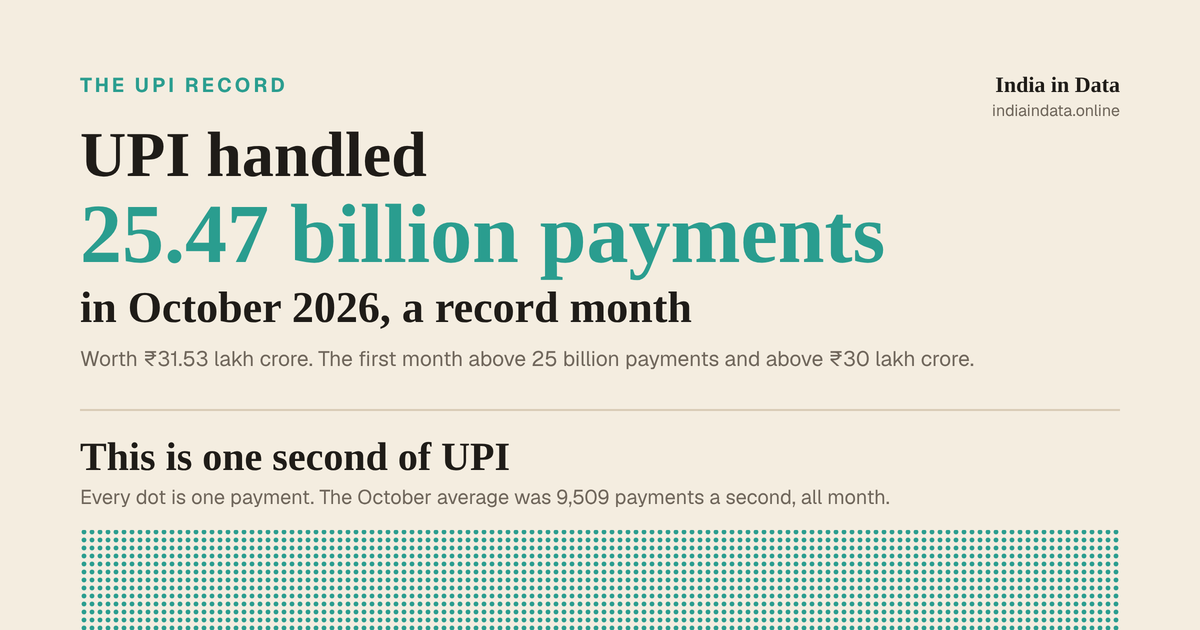
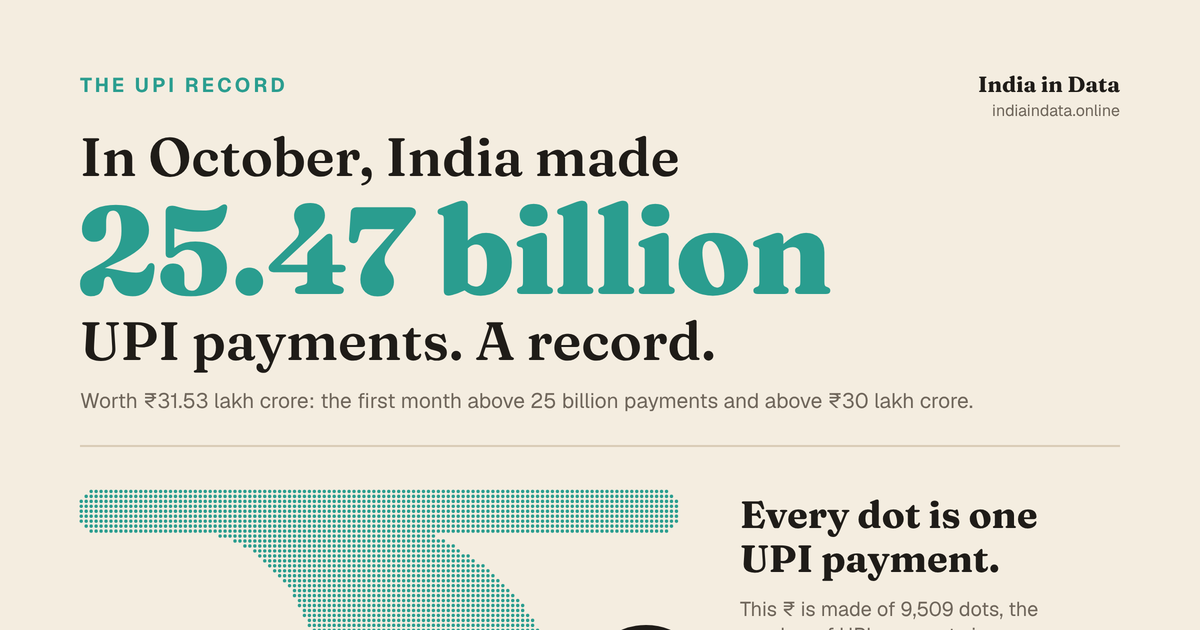
UPI infographic: rupee of 9,509 dots, midnight clock, receipt strips
Claude-Session: https://claude.ai/code/session_014CgExXTmhYcHWAfTLX6LU2

Changed region(s): [[0.0617, 0.2111, 0.925, 0.6635], [0.0617, 0.6937, 0.9558, 1.0], [0.8017, 0.1206, 0.925, 0.1508]]

diff --git a/src/infographics/UpiRecord.jsx b/src/infographics/UpiRecord.jsx
@@ -1,164 +1,238 @@
 import { forwardRef } from 'react'
 import { UPI_MONTHS } from './upiRecordData.js'
+import { RUPEE_DOTS } from './upiRupeeDots.js'
+import { POP_INDIA, POP_YEARS } from '../data/population.js'
 
-// Same editorial style as the other infographics: warm paper, serif display type, fixed palette.
+// House infographic style (warm paper, serif display), drawn with objects from UPI's own world:
+// a ₹ made of payments, a wall clock, and receipt strips feeding out of a payment printer.
 const C = {
-  paper: '#f4ede0', ink: '#1f1c18', mute: '#6f665b', rule: '#d9ccb6',
-  teal: '#2a9d8f', tealPale: '#bfe3dd', gold: '#e9c22a', goldDeep: '#c9a20f', red: '#d6473b', cream: '#ebe1cf',
+  paper: '#f4ede0', ink: '#1f1c18', mute: '#6f665b', rule: '#d9ccb6', slip: '#fffdf7', slipEdge: '#cdbfa6',
+  teal: '#2a9d8f', tealDeep: '#1f7a6f', tealPale: '#bfe3dd', gold: '#e9c22a', goldDeep: '#b8920b', red: '#d6473b', face: '#fbf6ec',
 }
-const SERIF = 'Fraunces, Georgia, "Times New Roman", serif'
+const SERIF = '"Fraunces Variable", Fraunces, Georgia, "Times New Roman", serif'
 const SANS = '"Geist Variable", "Helvetica Neue", Arial, sans-serif'
+const MONO = '"Geist Mono Variable", ui-monospace, Menlo, monospace'
 const n0 = (n) => Math.round(n).toLocaleString('en-IN')
 
 const last = UPI_MONTHS[UPI_MONTHS.length - 1]
 const yearAgo = UPI_MONTHS[0]
-const prev = UPI_MONTHS[UPI_MONTHS.length - 2]
-const prevRecord = Math.max(...UPI_MONTHS.slice(0, -1).map((m) => m.vol))
-const secs = 31 * 86400
-const perSec = Math.round((last.vol * 1e9) / secs) // payments every second, October average
-const croreSec = (last.val * 1e5) / secs // ₹ crore every second
-const dayCrore = 101707 // October average daily value, ₹ crore (NPCI via Inc42)
+const prevRecord = UPI_MONTHS.slice(0, -1).reduce((a, b) => (b.vol > a.vol ? b : a))
+const SECS = 31 * 86400
+const perSec = Math.round((last.vol * 1e9) / SECS) // 9,509
+const croreSec = (last.val * 1e5) / SECS // ₹ crore a second
+const DAY_CRORE = 101707 // October average daily value, ₹ crore (NPCI via Inc42)
+const pop2026 = POP_INDIA[POP_YEARS.indexOf(2026)] * 1000 // NCP projection, 1 March 2026
+const perPerson = Math.round((last.vol * 1e9) / pop2026)
 const growthVol = Math.round((last.vol / yearAgo.vol - 1) * 100)
 const growthVal = Math.round((last.val / yearAgo.val - 1) * 100)
 const avgNow = Math.round((last.val * 1e12) / (last.vol * 1e9))
 const avgThen = Math.round((yearAgo.val * 1e12) / (yearAgo.vol * 1e9))
 const avgDrop = Math.round((1 - avgNow / avgThen) * 100)
 
-// Scale comparisons, ₹ crore (both from our other pages)
-const JIO = 30213 // Jio Platforms IPO, NSE issue data
-const FPI = 48056 // October 2026 net FPI selling to 23 Oct, NSDL
-const hm = (frac) => {
-  const m = Math.round(frac * 24 * 60)
-  return `${Math.floor(m / 60)} h ${String(m % 60).padStart(2, '0')} min`
+// The clock: an average October day's value, flowing evenly from midnight
+const JIO = 30213 // Jio Platforms IPO, ₹ crore (NSE issue data)
+const FPI = 48056 // net FPI selling of Indian shares, 1-23 October 2026, ₹ crore (NSDL)
+const clockTime = (crore) => {
+  const mins = Math.round((crore / DAY_CRORE) * 24 * 60)
+  return { mins, label: `${Math.floor(mins / 60)}:${String(mins % 60).padStart(2, '0')} am` }
+}
+const tJio = clockTime(JIO)
+const tFpi = clockTime(FPI)
+
+if (RUPEE_DOTS.count !== perSec) {
+  // The ₹ is built for this exact number; regenerate upiRupeeDots.js if the data change.
+  console.warn(`UPI infographic: ₹ has ${RUPEE_DOTS.count} dots but the per-second figure is ${perSec}`)
 }
 
 const UpiRecord = forwardRef(function UpiRecord(_, ref) {
-  // ---- dot field: one dot per payment in one average second ----
-  const dx = 80, dy = 530, pitch = 8, cols = 130
-  const fullRows = Math.floor(perSec / cols)
-  const rem = perSec % cols
-  const fieldH = fullRows * pitch + (rem ? pitch : 0)
-
-  // ---- dial: one average UPI day as a 24-hour clock ----
-  const cx = 600, cy = 1780, R1 = 250, R2 = 200, sw = 34
-  const pt = (r, f) => {
-    const a = -Math.PI / 2 + f * 2 * Math.PI
-    return [cx + r * Math.cos(a), cy + r * Math.sin(a)]
+  // ---- the ₹ of dots ----
+  const gx = 80, gy = 488, P = RUPEE_DOTS.pitch
+  const rupeePath = RUPEE_DOTS.runs.map(([x, y, n]) => `M${(gx + x).toFixed(2)},${(gy + y).toFixed(2)}h${((n - 1) * P + P / 2).toFixed(2)}`).join('')
+  const lens = { x: gx + 566, y: gy + 202, r: 62, zoom: 4 }
+  const lensDots = []
+  for (let i = -4; i <= 4; i++) for (let j = -4; j <= 4; j++) {
+    const x = lens.x + i * P * lens.zoom, y = lens.y + j * P * lens.zoom
+    if (Math.hypot(x - lens.x, y - lens.y) < lens.r - 6) lensDots.push([x, y])
   }
-  const arc = (r, f) => {
-    const [x0, y0] = pt(r, 0), [x1, y1] = pt(r, f)
-    return `M${x0},${y0} A${r},${r} 0 ${f > 0.5 ? 1 : 0} 1 ${x1},${y1}`
+
+  // ---- the clock ----
+  const cx = 850, cy = 1800, R = 280
+  const at = (r, mins) => { // position on a 12-hour face, minutes after midnight
+    const a = (mins / 720) * 2 * Math.PI
+    return [cx + r * Math.sin(a), cy - r * Math.cos(a)]
   }
-  const fJio = JIO / dayCrore, fFpi = FPI / dayCrore
+  const wedge = (r, mins) => { const [x, y] = at(r, mins); return `M${cx},${cy} L${cx},${cy - r} A${r},${r} 0 ${mins > 360 ? 1 : 0} 1 ${x},${y} Z` }
+  const band = (r0, r1, mins) => {
+    const [ax, ay] = at(r1, mins), [bx, by] = at(r0, mins), big = mins > 360 ? 1 : 0
+    return `M${cx},${cy - r1} A${r1},${r1} 0 ${big} 1 ${ax},${ay} L${bx},${by} A${r0},${r0} 0 ${big} 0 ${cx},${cy - r0} Z`
+  }
 
-  // ---- stepped line ----
-  const px0 = 130, px1 = 1090, pyB = 2570, pyT = 2290, vMin = 18, vMax = 27
-  const stepW = (px1 - px0) / (UPI_MONTHS.length - 1)
-  const X = (i) => px0 + i * stepW
-  const Y = (v) => pyB - ((v - vMin) / (vMax - vMin)) * (pyB - pyT)
-  const linePts = UPI_MONTHS.map((m, i) => `${X(i)},${Y(m.vol)}`).join(' ')
-  const areaPts = `${X(0)},${pyB} ${linePts} ${X(UPI_MONTHS.length - 1)},${pyB}`
+  // ---- the receipt strips ----
+  const base = 2800, k = 19, sx0 = 100, slot = 1000 / UPI_MONTHS.length, sw = 58
+  const tooth = sw / 6
+  const strip = (x, top) => {
+    let d = `M${x},${base} L${x},${top + 6}`
+    for (let t = 0; t < 6; t++) d += ` L${x + t * tooth + tooth / 2},${top} L${x + (t + 1) * tooth},${top + 6}`
+    return `${d} L${x + sw},${base} Z`
+  }
 
+  const H = 3370
   return (
-    <svg ref={ref} viewBox="0 0 1200 3170" xmlns="http://www.w3.org/2000/svg" role="img"
-      aria-label={`UPI handled ${last.vol} billion payments worth ₹${last.val} lakh crore in October 2026, a record. That is about ${n0(perSec)} payments every second. Payments grew ${growthVol}% on a year earlier and value ${growthVal}%.`}
+    <svg ref={ref} viewBox={`0 0 1200 ${H}`} xmlns="http://www.w3.org/2000/svg" role="img"
+      aria-label={`India made ${last.vol} billion UPI payments worth ₹${last.val} lakh crore in October 2026, a record. That is ${n0(perSec)} payments in an average second. At October's pace UPI moves as much money as the Jio Platforms IPO by ${tJio.label} and as much as October's foreign selling of Indian shares by ${tFpi.label}.`}
       style={{ width: '100%', height: 'auto', display: 'block' }}>
       <defs>
-        <pattern id="upiDot" width={pitch} height={pitch} patternUnits="userSpaceOnUse">
-          <circle cx={pitch / 2} cy={pitch / 2} r="2.4" fill={C.teal} />
-        </pattern>
+        <clipPath id="upiLens"><circle cx={lens.x} cy={lens.y} r={lens.r - 4} /></clipPath>
       </defs>
-      <rect width="1200" height="3170" fill={C.paper} />
+      <rect width="1200" height={H} fill={C.paper} />
 
       {/* title */}
       <text x="80" y="92" fontFamily={SANS} fontSize="20" fontWeight="700" letterSpacing="3" fill={C.teal}>THE UPI RECORD</text>
       <text x="1120" y="92" textAnchor="end" fontFamily={SERIF} fontSize="22" fontWeight="700" fill={C.ink}>India in Data</text>
       <text x="1120" y="116" textAnchor="end" fontFamily={SANS} fontSize="16" fill={C.mute}>indiaindata.online</text>
-      <text x="80" y="176" fontFamily={SERIF} fontSize="64" fontWeight="700" fill={C.ink}>UPI handled</text>
-      <text x="80" y="262" fontFamily={SERIF} fontSize="84" fontWeight="800" fill={C.teal}>{last.vol} billion payments</text>
-      <text x="80" y="322" fontFamily={SERIF} fontSize="44" fontWeight="600" fill={C.ink}>in October 2026, a record month</text>
-      <text x="80" y="366" fontFamily={SANS} fontSize="21" fill={C.mute}>Worth ₹{last.val} lakh crore. The first month above 25 billion payments and above ₹30 lakh crore.</text>
+      <text x="80" y="176" fontFamily={SERIF} fontSize="54" fontWeight="600" fill={C.ink}>In October, India made</text>
+      <text x="76" y="294" fontFamily={SERIF} fontSize="124" fontWeight="800" letterSpacing="-2" fill={C.teal}>{last.vol} billion</text>
+      <text x="80" y="360" fontFamily={SERIF} fontSize="54" fontWeight="600" fill={C.ink}>UPI payments. A record.</text>
+      <text x="80" y="408" fontFamily={SANS} fontSize="21" fill={C.mute}>Worth ₹{last.val} lakh crore: the first month above 25 billion payments and above ₹30 lakh crore.</text>
 
-      {/* dot field */}
-      <line x1="80" x2="1120" y1="410" y2="410" stroke={C.rule} strokeWidth="2" />
-      <text x="80" y="470" fontFamily={SERIF} fontSize="40" fontWeight="700" fill={C.ink}>This is one second of UPI</text>
-      <text x="80" y="504" fontFamily={SANS} fontSize="20" fill={C.mute}>Every dot is one payment. The October average was {n0(perSec)} payments a second, all month.</text>
-      <rect x={dx} y={dy} width={cols * pitch} height={fullRows * pitch} fill="url(#upiDot)" />
-      {rem > 0 && <rect x={dx} y={dy + fullRows * pitch} width={rem * pitch} height={pitch} fill="url(#upiDot)" />}
-      <text x="80" y={dy + fieldH + 90} fontFamily={SERIF} fontSize="110" fontWeight="800" fill={C.teal}>{n0(perSec)}</text>
-      <text x="82" y={dy + fieldH + 130} fontFamily={SANS} fontSize="22" fill={C.ink}>payments every second, and ₹{croreSec.toFixed(2)} crore moved</text>
-      <text x="82" y={dy + fieldH + 162} fontFamily={SANS} fontSize="20" fill={C.mute}>A day is 86,400 of these panels: 822 million payments and ₹1.02 lakh crore.</text>
+      {/* ₹ made of one second of payments */}
+      <line x1="80" x2="1120" y1="446" y2="446" stroke={C.rule} strokeWidth="2" />
+      <path d={rupeePath} fill="none" stroke={C.teal} strokeWidth="3.4" strokeLinecap="round" strokeDasharray={`0 ${P}`} />
+      <circle cx={lens.x} cy={lens.y} r={lens.r} fill={C.paper} />
+      <g clipPath="url(#upiLens)">
+        {lensDots.map(([x, y], i) => <circle key={i} cx={x} cy={y} r={6.8} fill={C.teal} />)}
+      </g>
+      <circle cx={lens.x} cy={lens.y} r={lens.r} fill="none" stroke={C.ink} strokeWidth="6" />
+      <line x1={lens.x + (lens.r + 3) * 0.707} y1={lens.y + (lens.r + 3) * 0.707} x2={lens.x + (lens.r + 50) * 0.707} y2={lens.y + (lens.r + 50) * 0.707} stroke={C.ink} strokeWidth="13" strokeLinecap="round" />
 
-      {/* dial */}
-      <line x1="80" x2="1120" y1="1300" y2="1300" stroke={C.rule} strokeWidth="2" />
-      <text x="80" y="1362" fontFamily={SERIF} fontSize="40" fontWeight="700" fill={C.ink}>If one UPI day were a clock</text>
-      <text x="80" y="1396" fontFamily={SANS} fontSize="20" fill={C.mute}>The full circle is the ₹1.02 lakh crore UPI moved on an average October day, spread evenly over 24 hours.</text>
-      <circle cx={cx} cy={cy} r={R1} fill="none" stroke={C.cream} strokeWidth={sw} />
-      <circle cx={cx} cy={cy} r={R2} fill="none" stroke={C.cream} strokeWidth={sw} />
-      <path d={arc(R1, fFpi)} fill="none" stroke={C.red} strokeWidth={sw} />
-      <path d={arc(R2, fJio)} fill="none" stroke={C.gold} strokeWidth={sw} />
-      {[0, 6, 12, 18].map((h) => {
-        const [x, y] = pt(R1 + 46, h / 24)
-        return <text key={h} x={x} y={y + 6} textAnchor="middle" fontFamily={SANS} fontSize="18" fontWeight="700" fill={C.mute}>{h === 0 ? '0 h' : `${h} h`}</text>
-      })}
-      <text x={cx} y={cy - 24} textAnchor="middle" fontFamily={SERIF} fontSize="52" fontWeight="800" fill={C.teal}>₹1.02</text>
-      <text x={cx} y={cy + 14} textAnchor="middle" fontFamily={SERIF} fontSize="30" fontWeight="700" fill={C.ink}>lakh crore</text>
-      <text x={cx} y={cy + 44} textAnchor="middle" fontFamily={SANS} fontSize="18" fill={C.mute}>one UPI day</text>
+      <text x="740" y="528" fontFamily={SERIF} fontSize="38" fontWeight="700" fill={C.ink}>Every dot is one</text>
+      <text x="740" y="572" fontFamily={SERIF} fontSize="38" fontWeight="700" fill={C.ink}>UPI payment.</text>
+      <g fontFamily={SANS} fontSize="20" fill={C.mute}>
+        <text x="740" y="616">This ₹ is made of {n0(perSec)} dots, the</text>
+        <text x="740" y="642">number of UPI payments in an</text>
+        <text x="740" y="668">average second of October.</text>
+      </g>
       <g>
-        <rect x="80" y="2080" width="20" height="20" rx="10" fill={C.red} />
-        <text x="112" y="2097" fontFamily={SANS} fontSize="22" fontWeight="700" fill={C.ink}>October’s net FPI selling: ₹{n0(FPI)} crore</text>
-        <text x="112" y="2127" fontFamily={SANS} fontSize="22" fill={C.red}>UPI moves that in {hm(fFpi)}</text>
-        <rect x="660" y="2080" width="20" height="20" rx="10" fill={C.gold} />
-        <text x="692" y="2097" fontFamily={SANS} fontSize="22" fontWeight="700" fill={C.ink}>Jio Platforms IPO: ₹{n0(JIO)} crore</text>
-        <text x="692" y="2127" fontFamily={SANS} fontSize="22" fill={C.goldDeep}>UPI moves that in {hm(fJio)}</text>
+        <text x="740" y="790" fontFamily={SERIF} fontSize="58" fontWeight="800" fill={C.teal}>₹{croreSec.toFixed(2)} crore</text>
+        <text x="742" y="822" fontFamily={SANS} fontSize="19" fill={C.ink}>moved every second</text>
+        <text x="740" y="940" fontFamily={SERIF} fontSize="58" fontWeight="800" fill={C.teal}>822 million</text>
+        <text x="742" y="972" fontFamily={SANS} fontSize="19" fill={C.ink}>payments a day, worth ₹1.02 lakh crore,</text>
+        <text x="742" y="996" fontFamily={SANS} fontSize="19" fill={C.ink}>the first time a day passed ₹1 lakh crore</text>
+        <text x="740" y="1114" fontFamily={SERIF} fontSize="58" fontWeight="800" fill={C.teal}>{perPerson} payments</text>
+        <text x="742" y="1146" fontFamily={SANS} fontSize="19" fill={C.ink}>for every person in India, in one month</text>
       </g>
 
-      {/* stepped line */}
-      <line x1="80" x2="1120" y1="2190" y2="2190" stroke={C.rule} strokeWidth="2" />
-      <text x="80" y="2250" fontFamily={SERIF} fontSize="40" fontWeight="700" fill={C.ink}>Thirteen months, one new high</text>
-      {[20, 22, 24, 26].map((v) => (
-        <g key={v}>
-          <line x1={px0 - 20} x2={px1 + 20} y1={Y(v)} y2={Y(v)} stroke={C.rule} strokeWidth="1.5" strokeDasharray="2 6" />
-          <text x={px0 - 30} y={Y(v) + 6} textAnchor="end" fontFamily={SANS} fontSize="16" fill={C.mute}>{v}</text>
-        </g>
-      ))}
-      <text x="80" y="2282" fontFamily={SANS} fontSize="16" fill={C.mute}>Billion payments a month. The scale starts at 18.</text>
-      <polygon points={areaPts} fill={C.tealPale} opacity="0.7" />
-      <polyline points={linePts} fill="none" stroke={C.teal} strokeWidth="5" strokeLinejoin="round" strokeLinecap="round" />
-      <line x1={px0 - 20} x2={px1 + 20} y1={Y(prevRecord)} y2={Y(prevRecord)} stroke={C.goldDeep} strokeWidth="2.5" strokeDasharray="3 6" strokeLinecap="round" />
+      {/* the clock */}
+      <line x1="80" x2="1120" y1="1330" y2="1330" stroke={C.rule} strokeWidth="2" />
+      <text x="80" y="1396" fontFamily={SERIF} fontSize="44" fontWeight="700" fill={C.ink}>Start the clock at midnight</text>
+      <text x="80" y="1432" fontFamily={SANS} fontSize="20" fill={C.mute}>Let an average October day’s ₹1.02 lakh crore of UPI payments flow at an even pace from 12 am.</text>
+
+      <circle cx={cx} cy={cy} r={R} fill={C.face} stroke={C.ink} strokeWidth="9" />
+      <path d={band(150, 196, tFpi.mins)} fill={C.red} />
+      <path d={wedge(134, tJio.mins)} fill={C.gold} />
+      {Array.from({ length: 60 }, (_, m) => {
+        const hour = m % 5 === 0
+        const [x1, y1] = at(R - 14, m * 12), [x2, y2] = at(hour ? R - 38 : R - 24, m * 12)
+        return <line key={m} x1={x1} y1={y1} x2={x2} y2={y2} stroke={C.ink} strokeWidth={hour ? 5 : 2} strokeLinecap="round" />
+      })}
+      {Array.from({ length: 12 }, (_, h) => {
+        const [x, y] = at(R - 66, h * 60)
+        return <text key={h} x={x} y={y + 12} textAnchor="middle" fontFamily={SERIF} fontSize="34" fontWeight="700" fill={C.ink}>{h === 0 ? 12 : h}</text>
+      })}
+      {(() => {
+        const [jx, jy] = at(122, tJio.mins), [fx, fy] = at(206, tFpi.mins)
+        return (
+          <g strokeLinecap="round">
+            <line x1={cx} y1={cy} x2={fx} y2={fy} stroke={C.ink} strokeWidth="14" />
+            <line x1={cx} y1={cy} x2={fx} y2={fy} stroke={C.red} strokeWidth="7" />
+            <line x1={cx} y1={cy} x2={jx} y2={jy} stroke={C.ink} strokeWidth="20" />
+            <line x1={cx} y1={cy} x2={jx} y2={jy} stroke={C.gold} strokeWidth="12" />
+            <circle cx={cx} cy={cy} r="16" fill={C.ink} />
+            <circle cx={cx} cy={cy} r="5" fill={C.face} />
+          </g>
+        )
+      })()}
+
+      <text x="80" y="1560" fontFamily={SERIF} fontSize="72" fontWeight="800" fill={C.goldDeep}>{tJio.label}</text>
+      <g fontFamily={SANS} fontSize="21" fill={C.ink}>
+        <text x="82" y="1600"><tspan fontWeight="700">₹{n0(JIO)} crore</tspan> has moved: as much</text>
+        <text x="82" y="1628">as Jio Platforms raised in</text>
+        <text x="82" y="1656">India’s largest IPO</text>
+      </g>
+      <text x="80" y="1820" fontFamily={SERIF} fontSize="72" fontWeight="800" fill={C.red}>{tFpi.label}</text>
+      <g fontFamily={SANS} fontSize="21" fill={C.ink}>
+        <text x="82" y="1860"><tspan fontWeight="700">₹{n0(FPI)} crore</tspan>: as much as</text>
+        <text x="82" y="1888">foreign investors pulled out of</text>
+        <text x="82" y="1916">Indian shares in all of October</text>
+      </g>
+      <g fontFamily={SANS} fontSize="17" fill={C.mute}>
+        <text x="82" y="2040">Fewer people pay at night, so the real times</text>
+        <text x="82" y="2062">come later. The clock compares sizes, not timing.</text>
+      </g>
+
+      {/* receipt strips */}
+      <line x1="80" x2="1120" y1="2150" y2="2150" stroke={C.rule} strokeWidth="2" />
+      <text x="80" y="2216" fontFamily={SERIF} fontSize="44" fontWeight="700" fill={C.ink}>The receipts kept getting longer</text>
+      <text x="80" y="2252" fontFamily={SANS} fontSize="20" fill={C.mute}>One strip per month. Length is billions of UPI payments, drawn to scale from zero.</text>
+      <line x1="90" x2="1110" y1={base - prevRecord.vol * k} y2={base - prevRecord.vol * k} stroke={C.goldDeep} strokeWidth="2.5" strokeDasharray="3 7" strokeLinecap="round" />
+      <text x="100" y={base - prevRecord.vol * k - 12} fontFamily={SANS} fontSize="17" fontWeight="700" fill={C.goldDeep}>Previous record: {prevRecord.vol} billion, August 2026</text>
       {UPI_MONTHS.map((m, i) => {
-        const [mo, yr] = m.month.split(' ')
+        const x = sx0 + i * slot + (slot - sw) / 2
+        const top = base - m.vol * k
         const hero = i === UPI_MONTHS.length - 1
+        const lines = []
+        for (let y = top + 52, j = 0; y < base - 10; y += 17, j++) lines.push([y, 18 + ((i * 7 + j * 13) % 24)])
         return (
           <g key={m.month}>
-            <circle cx={X(i)} cy={Y(m.vol)} r={hero ? 12 : 6} fill={hero ? C.teal : C.paper} stroke={C.teal} strokeWidth="4" />
-            <text x={X(i)} y={pyB + 30} textAnchor="middle" fontFamily={SANS} fontSize="16" fill={C.ink}>{mo}</text>
-            {(i === 0 || mo === 'Jan') && <text x={X(i)} y={pyB + 52} textAnchor="middle" fontFamily={SANS} fontSize="15" fill={C.mute}>{yr}</text>}
+            <path d={strip(x, top)} fill={C.slip} stroke={hero ? C.teal : C.slipEdge} strokeWidth={hero ? 2.5 : 1.5} strokeLinejoin="round" />
+            {lines.map(([y, w]) => <line key={y} x1={x + 9} x2={x + 9 + w} y1={y} y2={y} stroke={hero ? C.tealPale : C.rule} strokeWidth="3" strokeLinecap="round" />)}
+            <text x={x + sw / 2} y={top + 32} textAnchor="middle" fontFamily={MONO} fontSize="15" fontWeight={hero ? 800 : 600} fill={hero ? C.tealDeep : C.ink}>{m.vol.toFixed(2)}</text>
+            {m.month.startsWith('Feb') && <text x={x + sw / 2} y={top - 12} textAnchor="middle" fontFamily={SERIF} fontStyle="italic" fontSize="15" fill={C.mute}>28 days</text>}
           </g>
         )
       })}
-      <text x={X(UPI_MONTHS.length - 1)} y={Y(last.vol) - 26} textAnchor="end" fontFamily={SERIF} fontSize="36" fontWeight="800" fill={C.teal}>{last.vol}</text>
-      <text x={px0 - 20} y={Y(prevRecord) - 12} fontFamily={SANS} fontSize="17" fontWeight="700" fill={C.goldDeep}>Previous record: {prevRecord}, August 2026</text>
-      <text x={X(4)} y={Y(UPI_MONTHS[4].vol) + 34} textAnchor="middle" fontFamily={SERIF} fontStyle="italic" fontSize="16" fill={C.mute}>28-day February</text>
+      <g transform={`rotate(-14 ${sx0 + 11.6 * slot} ${base - last.vol * k + 120})`}>
+        <circle cx={sx0 + 11.6 * slot} cy={base - last.vol * k + 120} r="52" fill={C.paper} fillOpacity="0.55" stroke={C.red} strokeWidth="4" />
+        <circle cx={sx0 + 11.6 * slot} cy={base - last.vol * k + 120} r="44" fill="none" stroke={C.red} strokeWidth="1.5" />
+        <text x={sx0 + 11.6 * slot} y={base - last.vol * k + 116} textAnchor="middle" fontFamily={SANS} fontSize="19" fontWeight="800" letterSpacing="1.5" fill={C.red}>RECORD</text>
+        <text x={sx0 + 11.6 * slot} y={base - last.vol * k + 140} textAnchor="middle" fontFamily={MONO} fontSize="13" fontWeight="700" fill={C.red}>OCT 2026</text>
+      </g>
+      <rect x="80" y={base - 6} width="1040" height="70" rx="18" fill={C.ink} />
+      <rect x="96" y={base - 4} width="1008" height="8" rx="4" fill="#3d362e" />
+      {UPI_MONTHS.map((m, i) => {
+        const [mo, yr] = m.month.split(' ')
+        const x = sx0 + i * slot + slot / 2
+        return (
+          <g key={m.month}>
+            <text x={x} y={base + 32} textAnchor="middle" fontFamily={SANS} fontSize="16" fontWeight="700" fill={C.paper}>{mo}</text>
+            {(i === 0 || mo === 'Jan') && <text x={x} y={base + 52} textAnchor="middle" fontFamily={SANS} fontSize="13" fill="#b9ad9a">{yr}</text>}
+          </g>
+        )
+      })}
 
-      {/* growth + average payment */}
-      <line x1="80" x2="1120" y1="2680" y2="2680" stroke={C.rule} strokeWidth="2" />
-      <text x="80" y="2740" fontFamily={SERIF} fontSize="40" fontWeight="700" fill={C.ink}>More payments, but smaller ones</text>
-      <rect x="80" y="2770" width={growthVol * 20} height="40" rx="4" fill={C.teal} />
-      <text x={80 + growthVol * 20 + 16} y="2799" fontFamily={SANS} fontSize="22" fill={C.ink}><tspan fontWeight="700">Payments +{growthVol}%</tspan> on October 2025</text>
-      <rect x="80" y="2824" width={growthVal * 20} height="40" rx="4" fill={C.tealPale} />
-      <text x={80 + growthVal * 20 + 16} y="2853" fontFamily={SANS} fontSize="22" fill={C.ink}><tspan fontWeight="700">Value moved +{growthVal}%</tspan></text>
-      <text x="80" y="2990" fontFamily={SERIF} fontSize="84" fontWeight="800" fill={C.mute}>₹{n0(avgThen)}</text>
-      <text x="420" y="2986" fontFamily={SANS} fontSize="56" fill={C.rule}>→</text>
-      <text x="520" y="2990" fontFamily={SERIF} fontSize="84" fontWeight="800" fill={C.teal}>₹{n0(avgNow)}</text>
-      <text x="860" y="2954" fontFamily={SANS} fontSize="18" fill={C.mute}>the average UPI payment fell {avgDrop}%,</text>
-      <text x="860" y="2978" fontFamily={SANS} fontSize="18" fill={C.mute}>October 2025 to October 2026</text>
+      {/* smaller payments */}
+      <line x1="80" x2="1120" y1="2920" y2="2920" stroke={C.rule} strokeWidth="2" />
+      <text x="80" y="2986" fontFamily={SERIF} fontSize="44" fontWeight="700" fill={C.ink}>More payments, smaller ones</text>
+      <text x="80" y="3022" fontFamily={SANS} fontSize="20" fill={C.mute}>On a year earlier, payments rose {growthVol}% but the money they moved rose {growthVal}%. The average payment shrank.</text>
+      {[[80, 'OCT 2025', avgThen, C.mute], [680, 'OCT 2026', avgNow, C.teal]].map(([x, lab, v, col]) => (
+        <g key={lab}>
+          <path d={`M${x},3060 h440 v50 a18,18 0 0 0 0,36 v54 h-440 v-54 a18,18 0 0 0 0,-36 Z`} fill={C.slip} stroke={C.slipEdge} strokeWidth="1.5" />
+          <line x1={x + 120} x2={x + 120} y1="3072" y2="3188" stroke={C.slipEdge} strokeWidth="1.5" strokeDasharray="4 5" />
+          <text x={x + 60} y="3118" textAnchor="middle" fontFamily={MONO} fontSize="15" fontWeight="700" fill={C.mute}>AVG</text>
+          <text x={x + 60} y="3140" textAnchor="middle" fontFamily={MONO} fontSize="15" fontWeight="700" fill={C.mute}>UPI</text>
+          <text x={x + 60} y="3162" textAnchor="middle" fontFamily={MONO} fontSize="15" fontWeight="700" fill={C.mute}>PMT</text>
+          <text x={x + 150} y="3100" fontFamily={MONO} fontSize="16" fontWeight="700" fill={C.mute}>{lab}</text>
+          <text x={x + 146} y="3172" fontFamily={SERIF} fontSize="74" fontWeight="800" fill={col}>₹{n0(v)}</text>
+        </g>
+      ))}
+      <text x="600" y="3146" textAnchor="middle" fontFamily={SANS} fontSize="48" fill={C.mute}>→</text>
+      <text x="1104" y="3100" textAnchor="end" fontFamily={MONO} fontSize="16" fontWeight="800" fill={C.red}>−{avgDrop}%</text>
 
       <g fontFamily={SANS} fontSize="14" fill={C.mute}>
-        <text x="80" y="3060">Sources: NPCI UPI monthly statistics. October 2026 as reported by Inc42; October 2025 to September 2026 compiled by India Dispatch Research.</text>
-        <text x="80" y="3080">Jio IPO size: NSE issue data. October FPI selling: NSDL, net equity flow to 23 October. These are net flows and UPI is gross value moved,</text>
-        <text x="80" y="3100">so the clock compares scale only. Per-second, hours and average-payment figures are our calculations, with the day spread evenly over 24 hours.</text>
-        <text x="80" y="3120">UPI value is not consumer spending. FPI data are revised.</text>
+        <text x="80" y="3260">Sources: NPCI UPI monthly statistics: October 2026 as reported by Inc42; October 2025 to September 2026 compiled by India Dispatch Research.</text>
+        <text x="80" y="3280">Population: National Commission on Population projection for 1 March 2026. Jio IPO size: NSE issue data. Foreign selling: NSDL net FPI equity</text>
+        <text x="80" y="3300">flows, 1 to 23 October 2026. FPI selling is a net flow and UPI is gross value moved, so the clock compares sizes only. Per-second, per-person,</text>
+        <text x="80" y="3320">clock and average-payment figures are our calculations. UPI value is money moved, not consumer spending.</text>
       </g>
     </svg>
   )

diff --git a/src/infographics/upiRupeeDots.js b/src/infographics/upiRupeeDots.js
@@ -1,0 +1,4 @@
+// A ₹ sign (Fraunces, weight 800) sampled into exactly 9509 dots on a 4.960px grid,
+// one dot per UPI payment in an average second of October 2026. Generated once with a browser canvas;
+// each run is [x, y, number of dots in a row], relative to a 601 x 782 box.
+export const RUPEE_DOTS = { count: 9509, pitch: 4.9600, w: 601, h: 782, runs: [[11.16,3.41,117],[6.2,8.37,119],[1.24,13.33,121],[1.24,18.29,121],[1.24,23.25,121],[1.24,28.21,121],[1.24,33.17,121],[6.2,38.13,119],[11.16,43.09,117],[140.12,48.05,44],[155,53.01,43],[164.92,57.97,43],[174.84,62.93,42],[179.8,67.89,43],[184.76,72.85,43],[189.72,77.81,44],[194.68,82.77,44],[199.64,87.73,44],[204.6,92.69,44],[209.56,97.65,44],[214.52,102.61,44],[214.52,107.57,45],[219.48,112.53,45],[219.48,117.49,46],[224.44,122.45,45],[224.44,127.41,46],[229.4,132.37,46],[229.4,137.33,46],[234.36,142.29,46],[234.36,147.25,47],[234.36,152.21,47],[239.32,157.17,47],[239.32,162.13,47],[239.32,167.09,48],[239.32,172.05,48],[244.28,177.01,47],[11.16,181.97,117],[6.2,186.93,119],[1.24,191.89,120],[1.24,196.85,121],[1.24,201.81,121],[1.24,206.77,121],[6.2,211.73,119],[6.2,216.69,119],[16.12,221.65,115],[249.24,226.61,48],[249.24,231.57,48],[249.24,236.53,48],[249.24,241.49,48],[249.24,246.45,48],[249.24,251.41,48],[244.28,256.37,49],[244.28,261.33,49],[244.28,266.29,49],[244.28,271.25,48],[244.28,276.21,48],[244.28,281.17,48],[244.28,286.13,48],[239.32,291.09,49],[239.32,296.05,48],[239.32,301.01,48],[234.36,305.97,48],[234.36,310.93,48],[234.36,315.89,48],[229.4,320.85,48],[229.4,325.81,47],[224.44,330.77,48],[224.44,335.73,47],[219.48,340.69,48],[214.52,345.65,48],[209.56,350.61,48],[204.6,355.57,48],[204.6,360.53,48],[199.64,365.49,48],[189.72,370.45,49],[184.76,375.41,49],[174.84,380.37,50],[164.92,385.33,50],[150.04,390.29,52],[31,395.25,74],[26.04,400.21,74],[21.08,405.17,73],[21.08,410.13,71],[16.12,415.09,70],[16.12,420.05,67],[16.12,425.01,64],[16.12,429.97,59],[16.12,434.93,55],[16.12,439.89,56],[21.08,444.85,56],[21.08,449.81,57],[26.04,454.77,56],[31,459.73,56],[35.96,464.69,56],[40.92,469.65,56],[45.88,474.61,55],[45.88,479.57,56],[50.84,484.53,56],[55.8,489.49,56],[55.8,494.45,56],[60.76,499.41,56],[65.72,504.37,56],[70.68,509.33,56],[70.68,514.29,57],[75.64,519.25,57],[80.6,524.21,56],[85.56,529.17,56],[85.56,534.13,57],[90.52,539.09,57],[95.48,544.05,57],[100.44,549.01,56],[105.4,553.97,56],[105.4,558.93,57],[110.36,563.89,57],[115.32,568.85,57],[120.28,573.81,56],[120.28,578.77,57],[125.24,583.73,57],[130.2,588.69,57],[135.16,593.65,56],[135.16,598.61,57],[140.12,603.57,57],[145.08,608.53,57],[150.04,613.49,56],[150.04,618.45,57],[155,623.41,57],[159.96,628.37,57],[164.92,633.33,57],[164.92,638.29,57],[169.88,643.25,57],[174.84,648.21,57],[179.8,653.17,57],[179.8,658.13,58],[184.76,663.09,58],[189.72,668.05,57],[194.68,673.01,57],[194.68,677.97,58],[199.64,682.93,58],[204.6,687.89,58],[209.56,692.85,57],[209.56,697.81,58],[214.52,702.77,58],[219.48,707.73,58],[224.44,712.69,57],[229.4,717.65,57],[229.4,722.61,58],[234.36,727.57,58],[239.32,732.53,58],[239.32,737.49,58],[244.28,742.45,57],[249.24,747.41,56],[254.2,752.37,56],[259.16,757.33,55],[264.12,762.29,53],[269.08,767.25,52],[279,772.21,49],[288.92,777.17,46]] }

diff --git a/src/infographics/registry.js b/src/infographics/registry.js
@@ -18,7 +18,7 @@ export const INFOGRAPHICS = [
     related: { to: '/article/upi-record-october-2026', label: 'Read the story: UPI’s record October' },
     table: { head: ['Month', 'Payments (billion)', 'Value (₹ lakh crore)'], rows: UPI_MONTHS.map((m) => [m.month, m.vol.toFixed(2), m.val.toFixed(2)]) },
     summary:
-      'UPI processed 25.47 billion payments worth ₹31.53 lakh crore in October 2026, the first month above 25 billion payments and above ₹30 lakh crore. Against October 2025, payments rose 23% and value 16%, so the average payment fell from about ₹1,318 to about ₹1,238. The previous volume record was 24.51 billion in August 2026.',
+      'UPI processed 25.47 billion payments worth ₹31.53 lakh crore in October 2026, the first month above 25 billion payments and above ₹30 lakh crore. Against October 2025, payments rose 23% and value 16%, so the average payment fell from about ₹1,318 to about ₹1,238. The previous volume record was 24.51 billion in August 2026. That is 9,509 payments in an average second, about 18 for every person in India in the month. If an average October day’s ₹1.02 lakh crore flowed evenly from midnight, UPI would have moved as much as the Jio Platforms IPO raised (₹30,213 crore) by 7:08 am, and as much as foreign investors pulled out of Indian shares in October (₹48,056 crore) by 11:20 am.',
   },
   {
     slug: 'fpi-selloff-october-2026',
